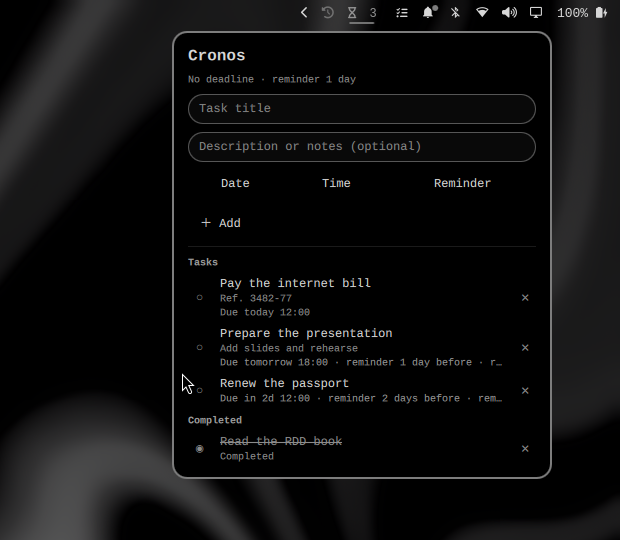
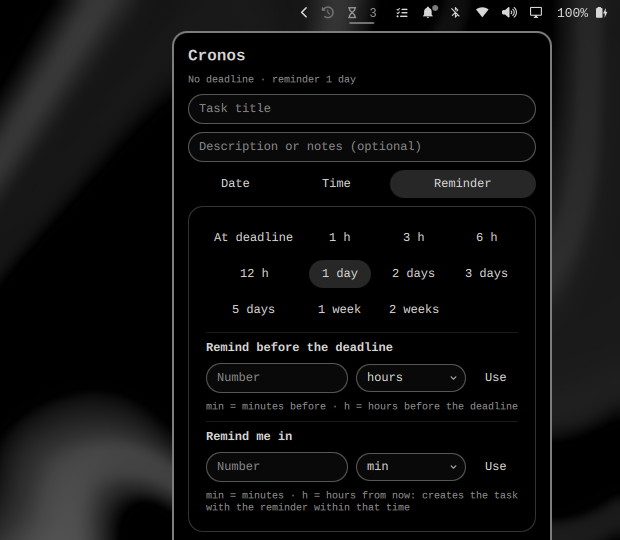
docs: refresh screenshots with the English UI

diff --git a/README.md b/README.md
@@ -4,6 +4,8 @@ Bar widget and service for Omarchy with tasks and deadline reminders.
 
 ![Cronos panel in the Omarchy bar](docs/screenshot.png)
 
+![Cronos reminder settings](docs/screenshot-reminder.png)
+
 A quick access in the bar lets you add a task (title, optional note, due date
 and time) and choose when to be reminded:
 
